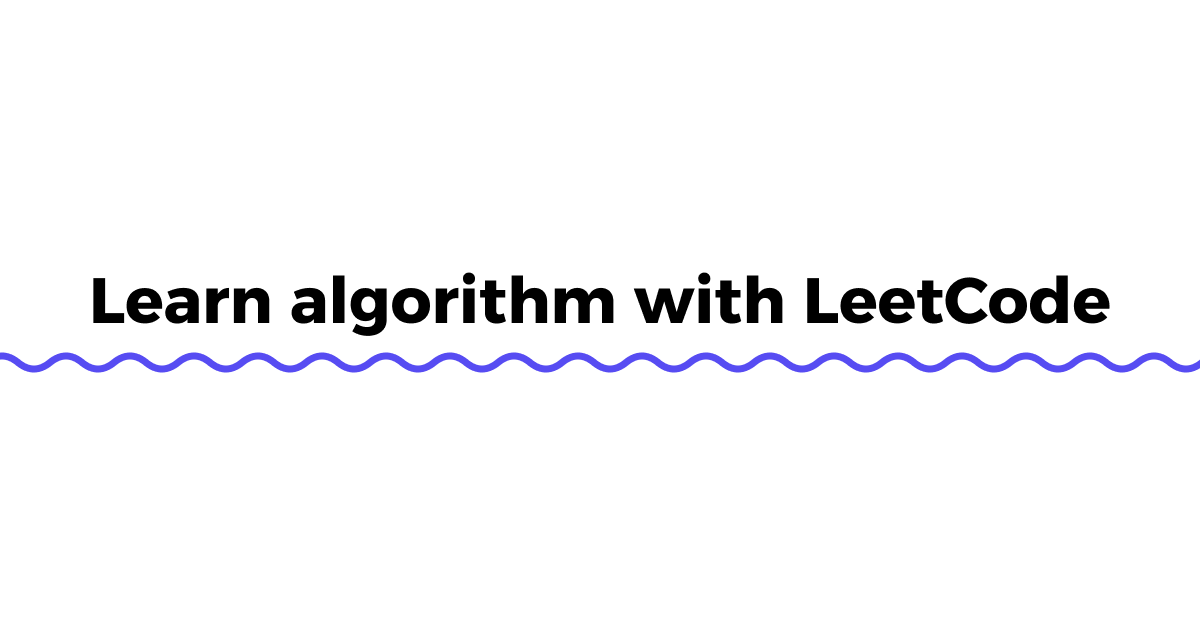
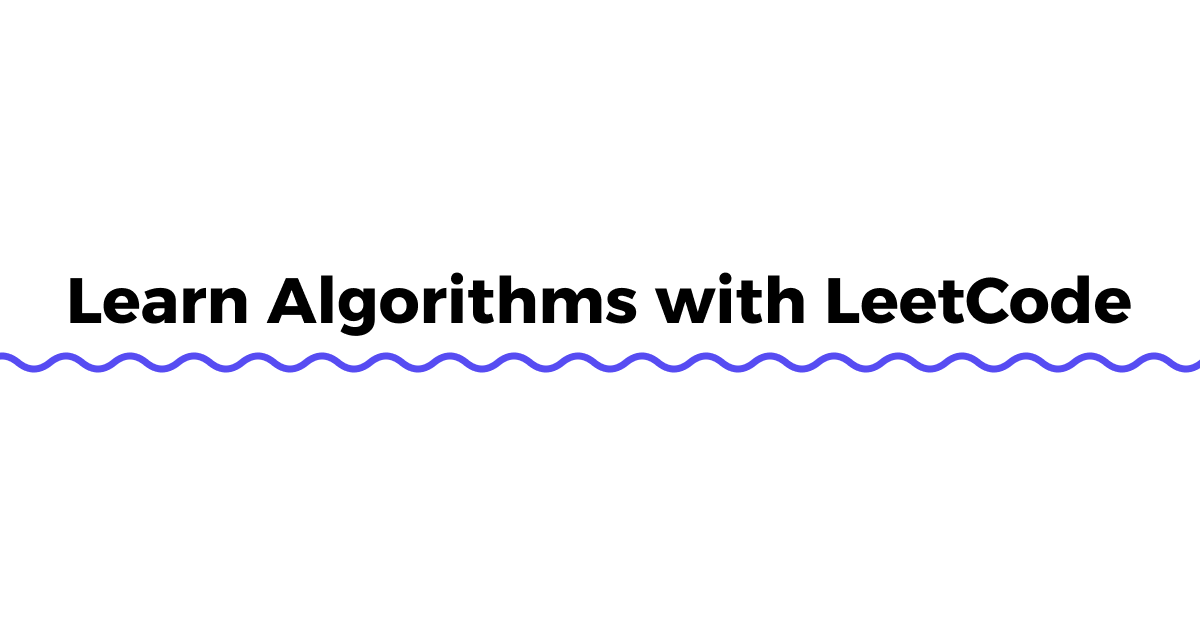
replace ogp.png

Changed region(s): [[0.0308, 0.4222, 0.9558, 0.5429]]

diff --git a/index.html b/index.html
@@ -225,7 +225,7 @@
 
 <header class="hero">
   <div class="wrap hero-inner">
-    <h1 data-i18n="title">Learn algorithm with LeetCode</h1>
+    <h1 data-i18n="title">Learn Algorithms with LeetCode</h1>
     <div class="lang-switch" role="group" aria-label="言語切替">
       <button class="lang-btn active" type="button" data-lang="ja" aria-pressed="true">JP</button>
       <button class="lang-btn" type="button" data-lang="en" aria-pressed="false">EN</button>
@@ -842,3 +842,4 @@
 </script>
 </body>
 </html>
+
